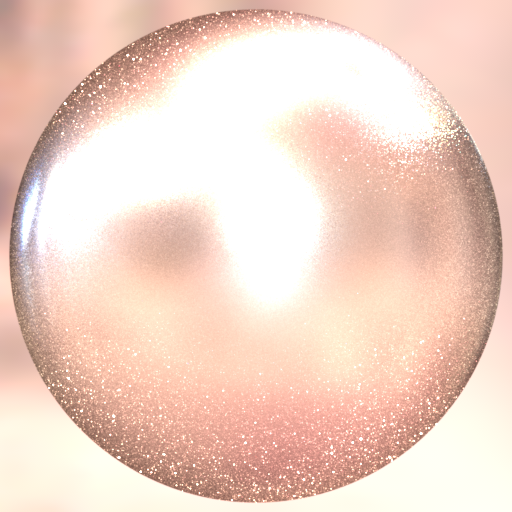
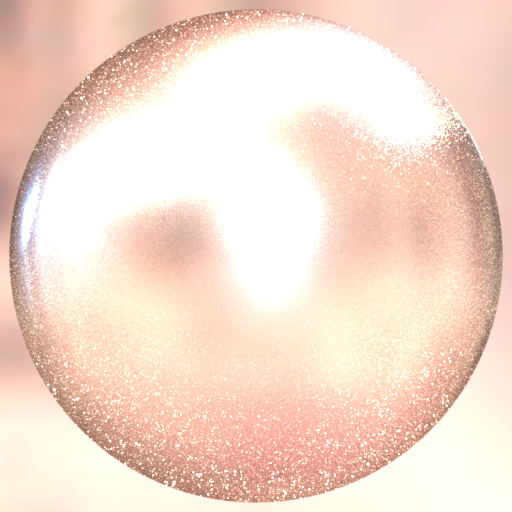
- sample with pdf

Changed region(s): [[0.0, 0.0, 1.0, 1.0]]

diff --git a/mit3_render.py b/mit3_render.py
@@ -59,7 +59,7 @@ class NetworkBSDF(mi.BSDF):
         # bs.pdf = mi.Float(pdf)
         cos_theta_o = mi.Frame3f.cos_theta(bs.wo)
         value_mi = self._eval_network(si.wi, bs.wo)
-        value_mi = value_mi / bs.pdf
+        value_mi = value_mi / bs.pdf * cos_theta_o
 
         return (bs, dr.select(active & (bs.pdf > 0.0), value_mi, mi.Vector3f(0)))
 
